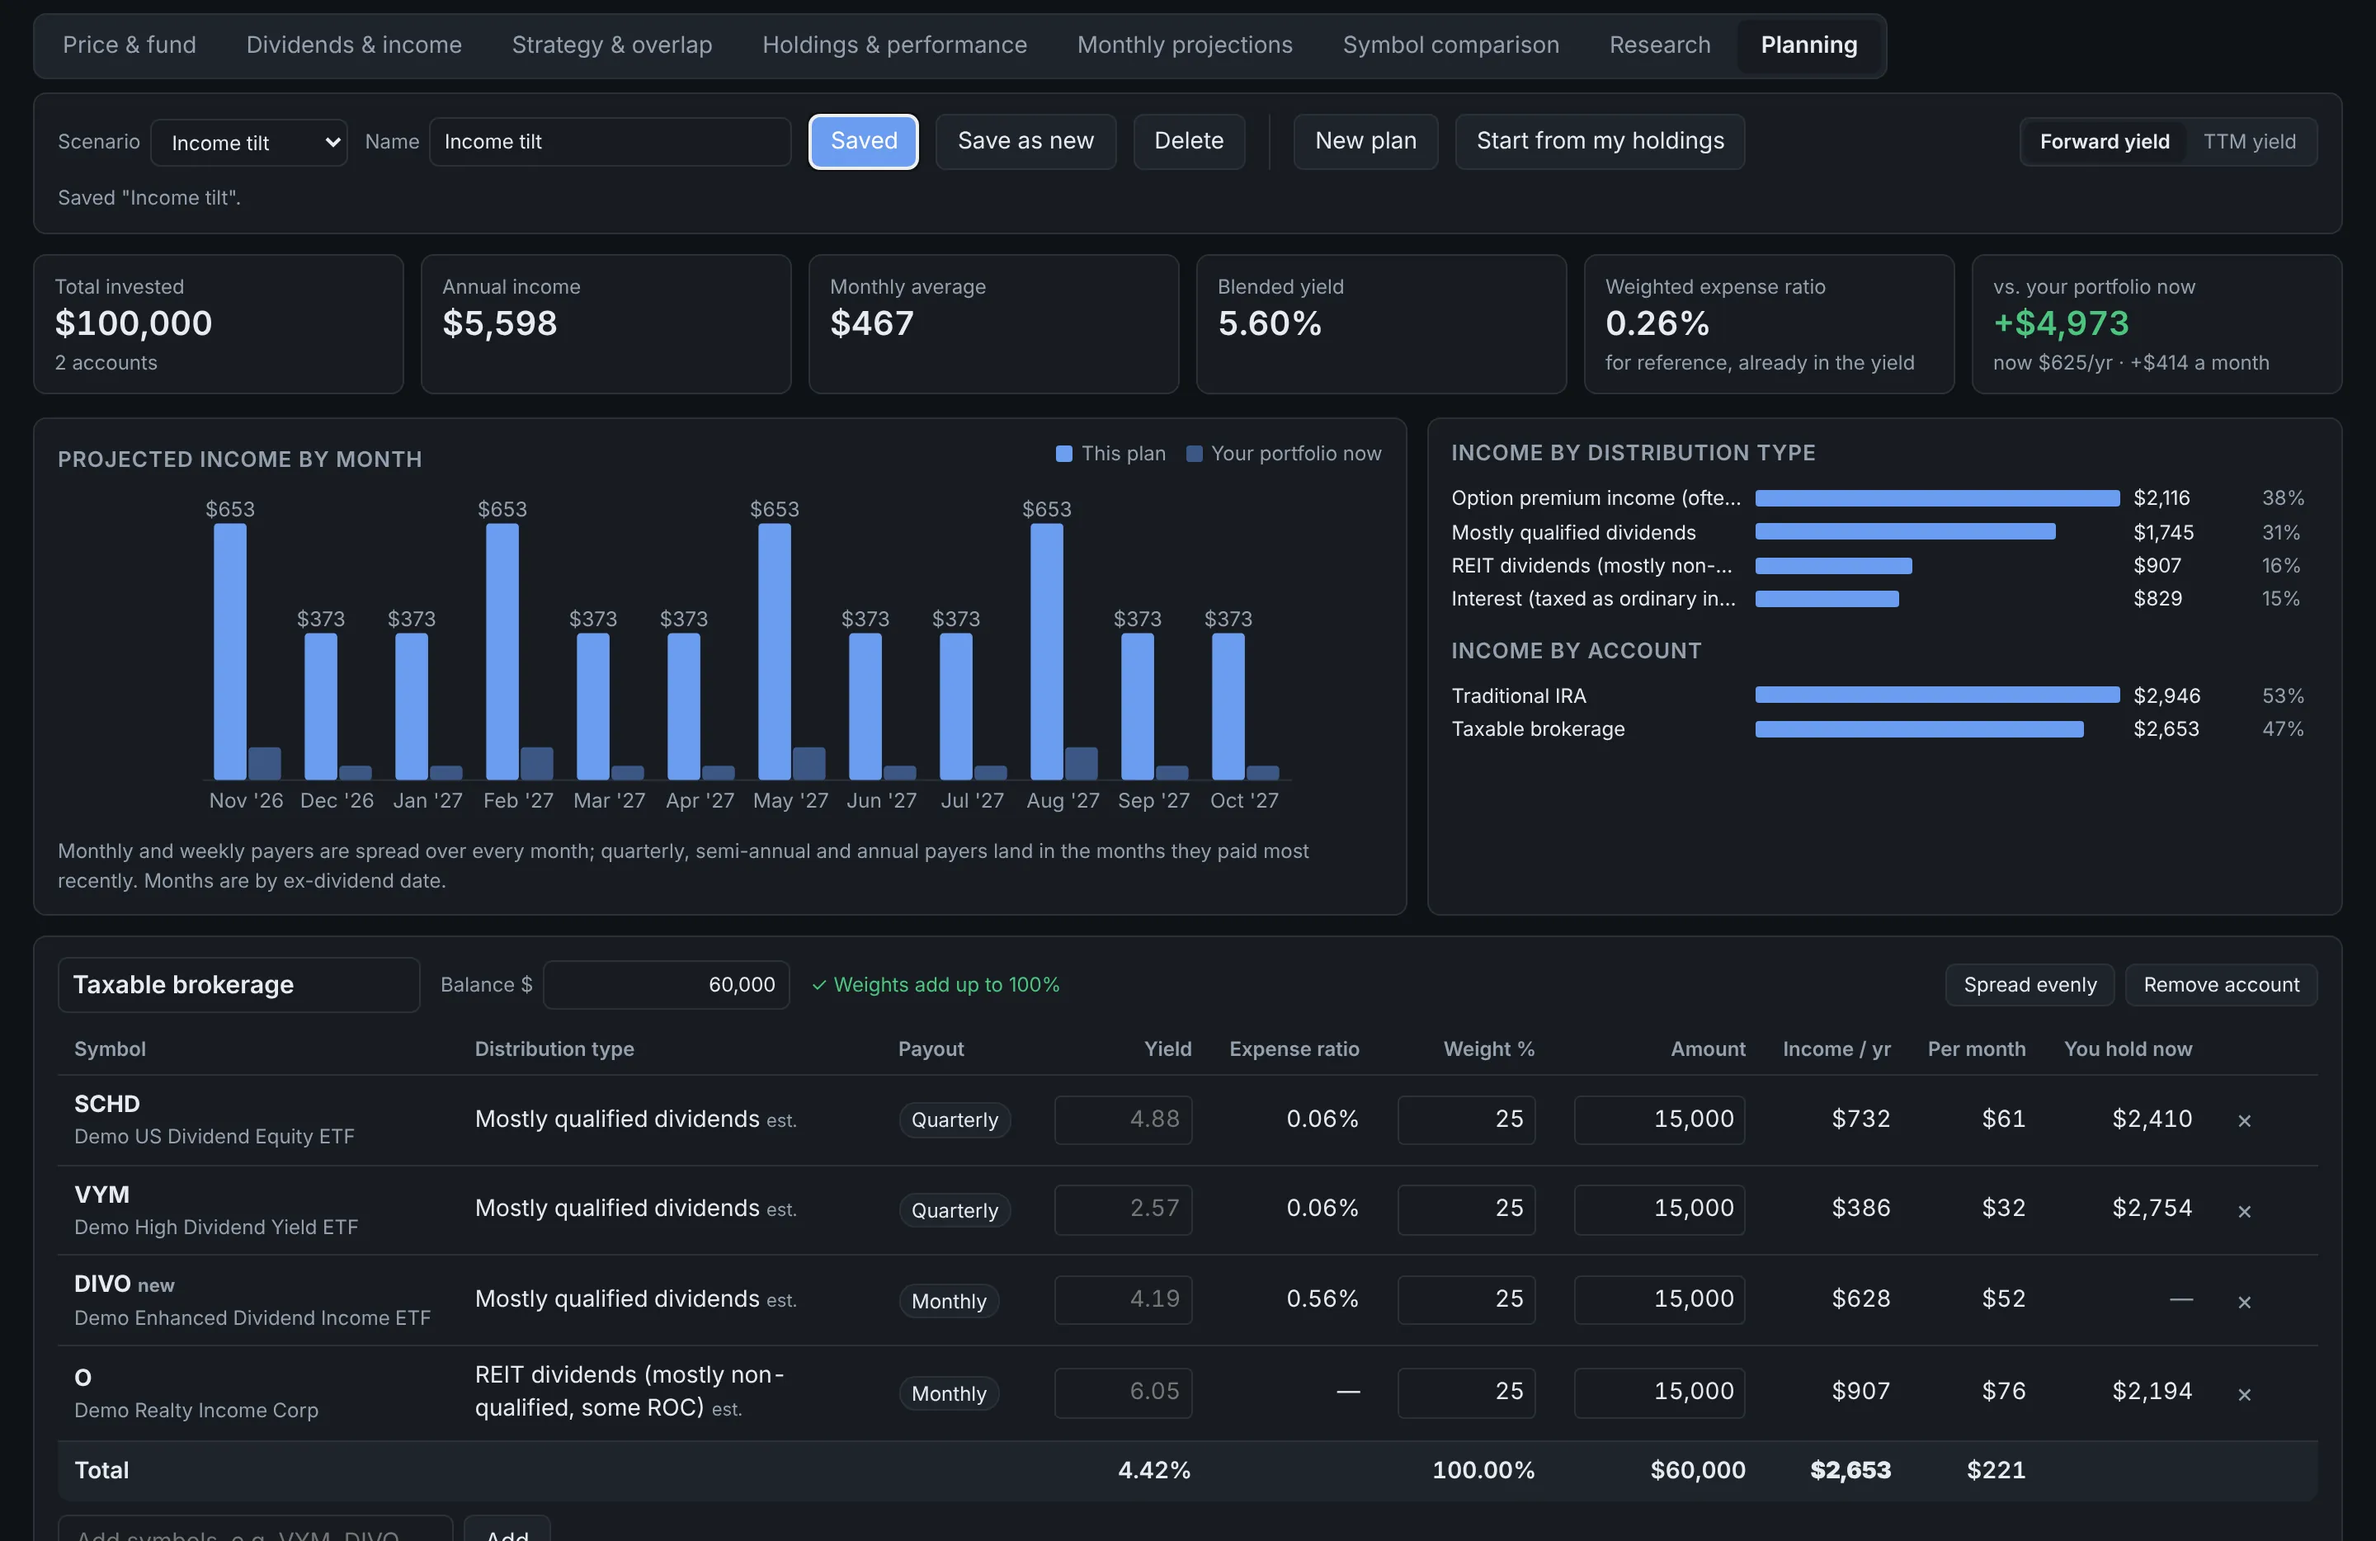
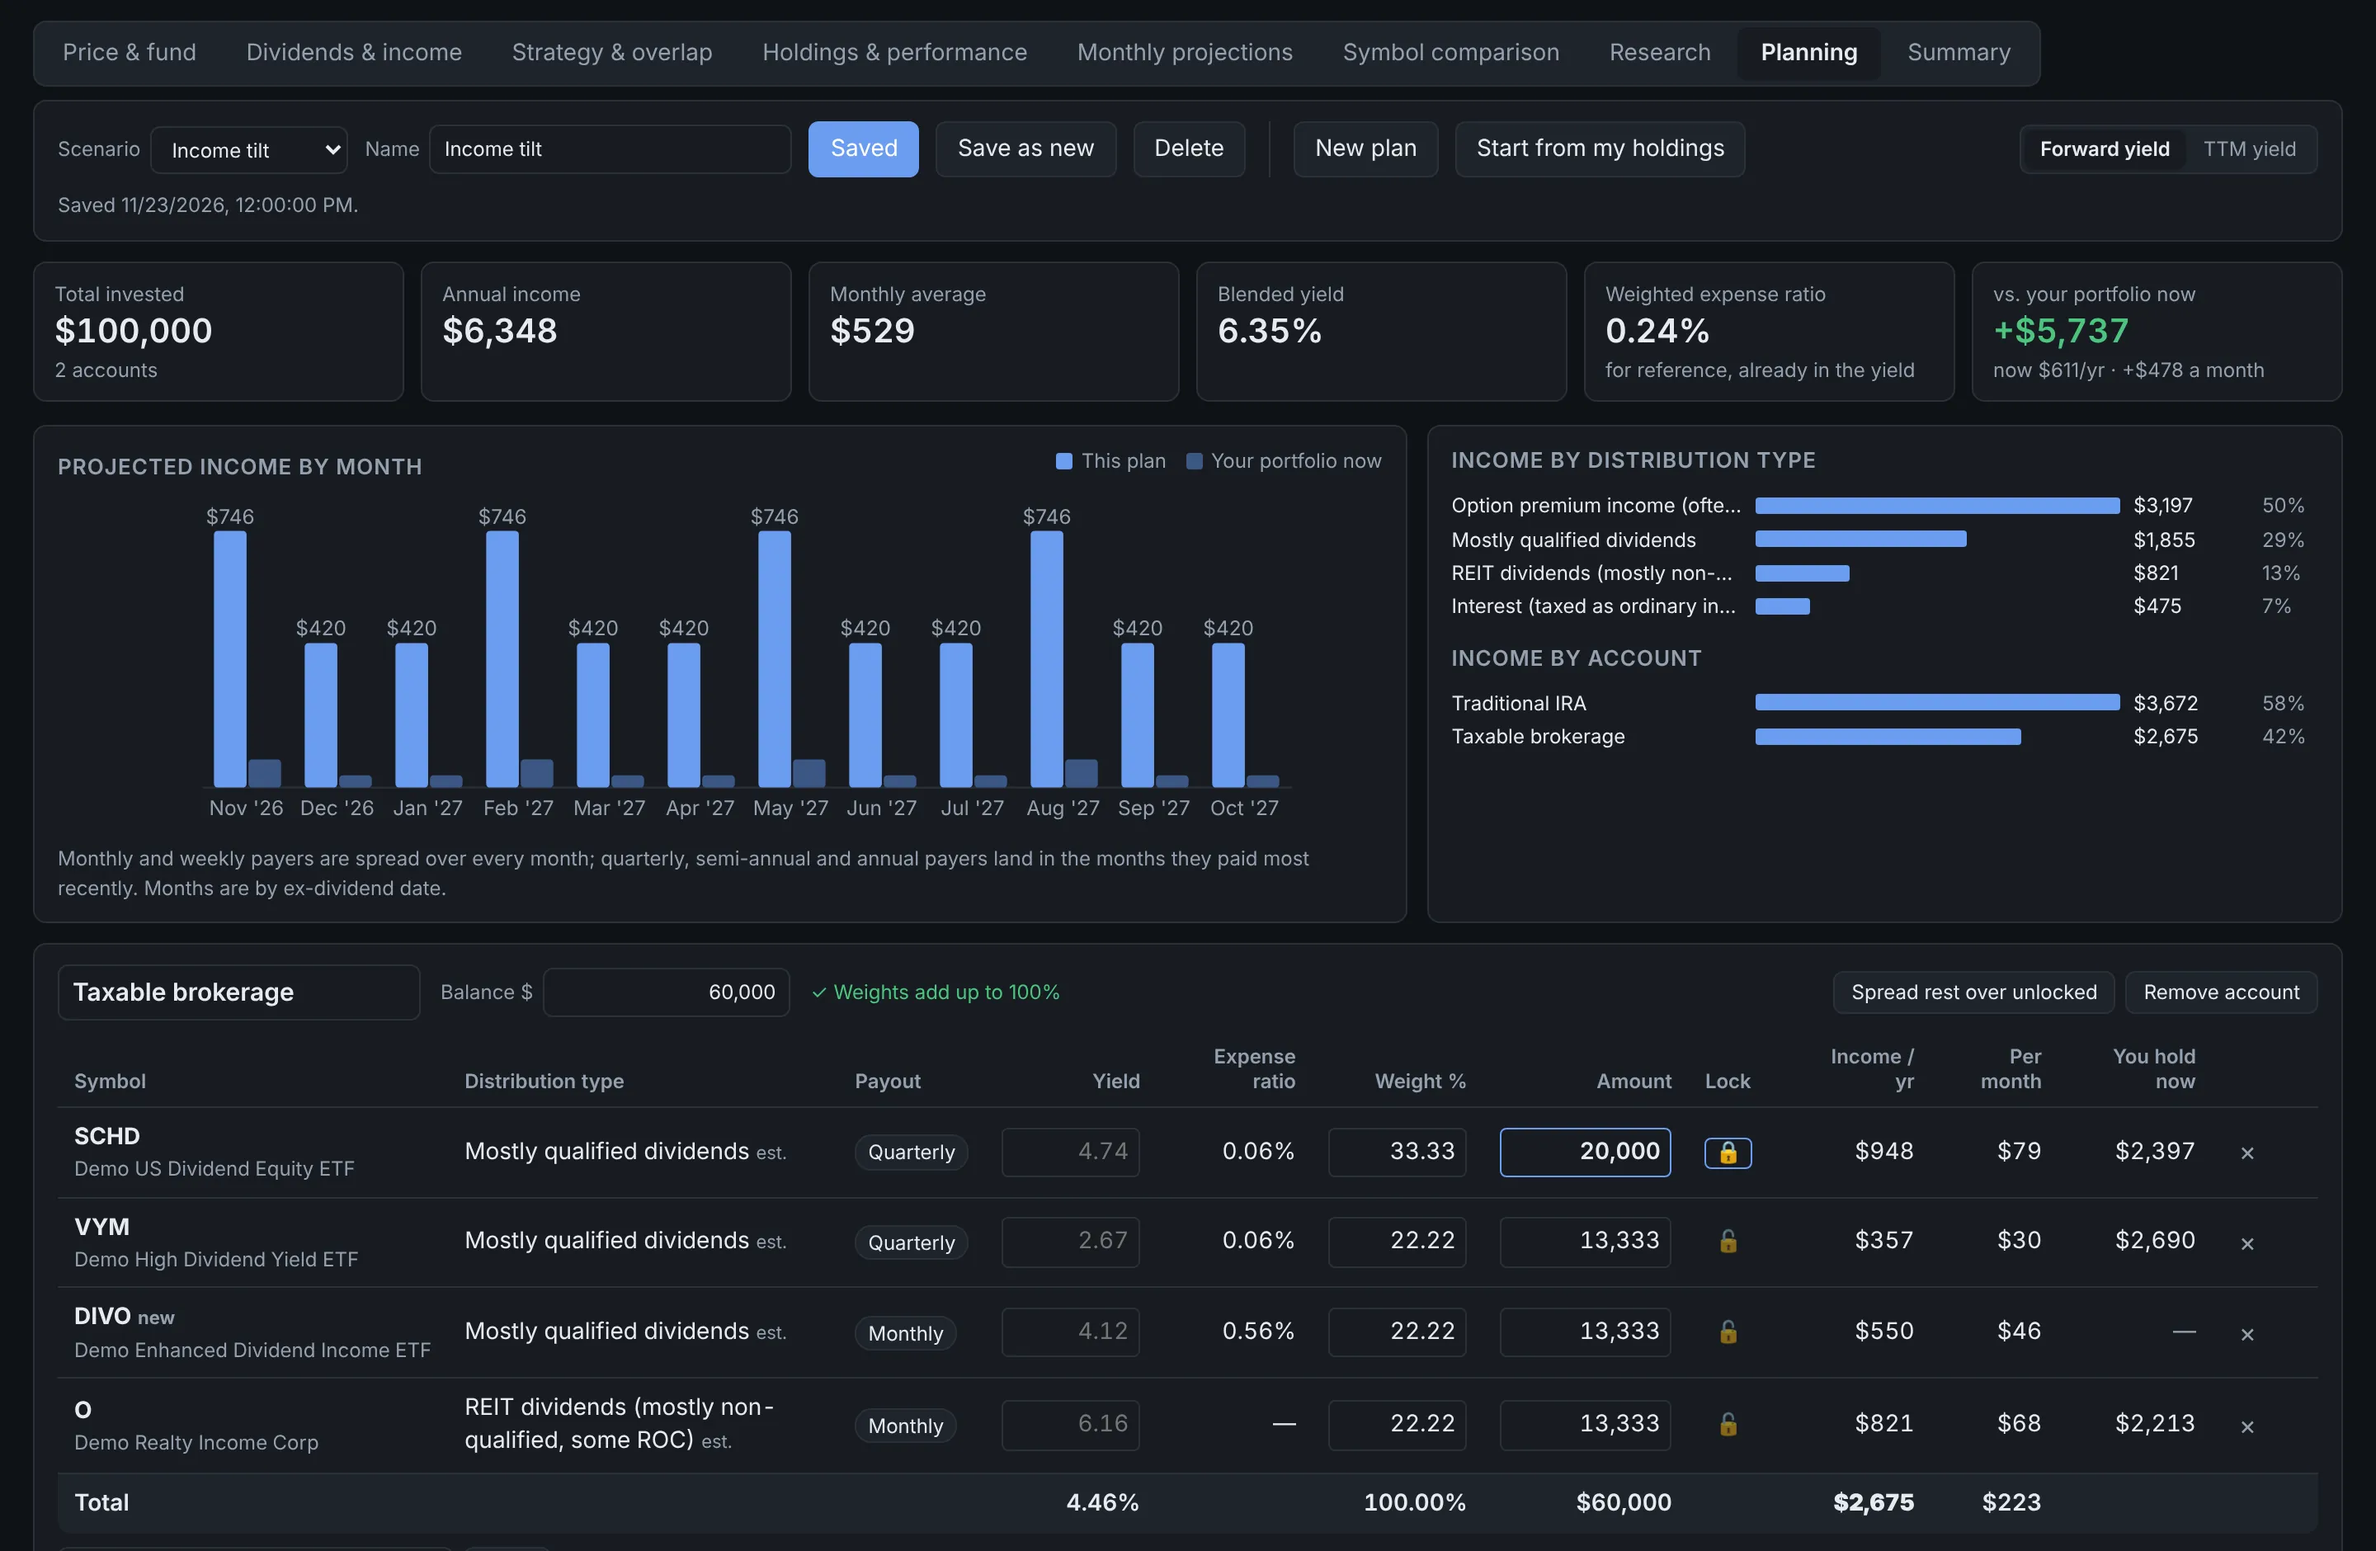
Dividend Dashboard: add Summary tab, Planning locks, Research holdings badges, money market yields
Describe the features added to the dashboard since Nov 19: the Summary tab
with PNG/PDF export and Hide $ amounts, locked dollar amounts in Planning,
clickable holdings badges in Research, $/%/Both switches, and money market
funds classed as interest with a 7-day yield. New Summary screenshot and
refreshed Research and Planning screenshots, all from --demo data.

Claude-Session: https://claude.ai/code/session_01VvQfTNRDUN5mZNHAqGB2im

diff --git a/docs/projects/dividend-dashboard/features.md b/docs/projects/dividend-dashboard/features.md
@@ -65,6 +65,10 @@ announced). For your position: market value and shares, percent of your
 portfolio with a small bar, income per year and per month, and yield on cost.
 Symbols with no shares show as *watch*.
 
+Money market funds (SPAXX, FDRXX and the like) are recognized automatically and
+classed as interest, taxed as ordinary income. Yahoo keeps no payout history for
+them, so their yield comes from Yahoo's current 7-day yield and is marked *7-day*.
+
 ### Strategy & overlap
 
 Each holding's underlying exposure (Nasdaq-100, S&P 500 and so on) and options
@@ -78,7 +82,8 @@ plain-English glossary of the strategies.
 Quantity, average cost, current price, total cost, market value, unrealized
 gain or loss ($ and %), portfolio weight, income and yield on cost, with totals.
 **Holdings by size**, above the table, lists every position by market value and
-share of the portfolio, largest first, with a stacked bar on top.
+share of the portfolio, largest first, with a stacked bar on top. Switch it
+between **$**, **%** or **Both**.
 
 ### Monthly projections
 
@@ -86,7 +91,7 @@ Projected income for each holding over the next 12 months, with monthly totals
 and a chart. Monthly and weekly payers count in every month; quarterly,
 semi-annual and annual payers repeat the month of their latest payment.
 **Annual projection by holding** splits the year's income into a stacked bar
-and a list, in dollars or percent.
+and a list, in **%**, **$** or **Both**.
 
 ### Symbol comparison
 
@@ -99,7 +104,8 @@ return, yield, volatility, max drawdown and the period's low and high.
 
 Look up any single symbol: price, headline numbers, the same chart and stats as
 Symbol comparison, and everything from the detail view. **+ Compare** sends it
-to the comparison tab.
+to the comparison tab. Badges for your holdings sit below the symbol box, so you
+can look one up with a single click; the one you're viewing is highlighted.
 
 ### Planning
 
@@ -113,6 +119,11 @@ For each symbol, set a weight % or a dollar amount. The row shows distribution
 type, payout frequency, yield (forward or TTM, or type your own), expense ratio,
 income per year and per month, and what you hold in it now. Each account checks
 that its weights add up to 100%, and **Spread evenly** splits it equally.
+
+To pin an exact dollar amount, type it in the row's Amount box and click its
+lock (🔒). A locked amount stays put when the balance changes, and the button
+becomes **Spread rest over unlocked**, which splits whatever the locked rows
+leave of the balance equally over the others. Locks are saved with the scenario.
 Expense ratio is for reference only: fund yields are already paid after fees,
 so it isn't subtracted again.
 
@@ -126,6 +137,22 @@ you can try a rebalance.
 next to your holdings file, so it travels with it through a shared cloud folder.
 **Save as new** makes a copy, and the **Saved scenarios** table compares them
 all against your portfolio now.
+
+### Summary
+
+A one-page snapshot of the whole portfolio to print or share, stamped with
+today's date. It shows metric cards (portfolio value, annual income, monthly
+average, current yield, yield on cost, total gain or loss and holdings), the
+next 12 months of projected income with the annual total, income by payout
+frequency (weekly, monthly, quarterly and so on), allocation donuts by holding
+and by core focus, **Holdings by size** and **Annual projection by holding**.
+Flagged holdings are highlighted in those panels.
+
+**Save as PNG** saves it as one image and **Download PDF** as a letter-size PDF,
+both in the theme you're using, made in the browser with no add-ons and no
+internet needed. **Hide $ amounts** swaps every dollar figure for $••• (the
+percentages stay), so you can post it without showing your balances; the
+exports follow it too.
 
 ## Using it on more than one computer
 

diff --git a/docs/projects/dividend-dashboard/screenshots.md b/docs/projects/dividend-dashboard/screenshots.md
@@ -46,12 +46,18 @@ Up to 10 tickers compared over a chosen period.
 
 ## Research
 
-Look up any symbol, held or not.
+Look up any symbol, held or not, or click one of your holdings below the search box.
 
-![Research tab: Look up any symbol, held or not](../../assets/images/dividend-dashboard/7-research.webp){ .screenshot loading=lazy }
+![Research tab: Look up any symbol, held or not, or click one of your holdings below the search box](../../assets/images/dividend-dashboard/7-research.webp){ .screenshot loading=lazy }
 
 ## Planning
 
-A what-if plan across two accounts, with income by month compared with your portfolio now.
+A what-if plan across two accounts, with income by month compared with your portfolio now. SCHD is locked at $20,000 and the rest of the account is spread over the unlocked rows.
 
-![Planning tab: A what-if plan across two accounts, with income by month compared with your portfolio now](../../assets/images/dividend-dashboard/8-planning.webp){ .screenshot loading=lazy }
+![Planning tab: A what-if plan across two accounts, with income by month compared with your portfolio now, and one row locked at a dollar amount](../../assets/images/dividend-dashboard/8-planning.webp){ .screenshot loading=lazy }
+
+## Summary
+
+A one-page snapshot to save as a PNG or PDF: metric cards, 12-month income, income by payout frequency, allocation donuts, holdings by size and annual projection by holding.
+
+![Summary tab: Metric cards, 12-month income, income by payout frequency, allocation donuts, holdings by size and annual projection by holding](../../assets/images/dividend-dashboard/9-summary.webp){ .screenshot loading=lazy }

diff --git a/docs/projects/dividend-dashboard/faq.md b/docs/projects/dividend-dashboard/faq.md
@@ -41,6 +41,17 @@
     capital, bond funds pay interest). Check the fund's 19a-1 notices or your
     1099-DIV, then set it in Edit holdings.
 
+??? question "Why does my money market fund show a *7-day* yield?"
+    Yahoo keeps no payout history for money market funds (SPAXX, FDRXX and so
+    on), so there's nothing to work out a trailing or forward yield from. The
+    dashboard uses Yahoo's current 7-day yield instead, assumes monthly payments,
+    and classes the income as interest (ordinary income).
+
+??? question "Can I share a snapshot of my portfolio without showing my balances?"
+    Yes. On the **Summary** tab, tick **Hide $ amounts** and every dollar figure
+    becomes $••• while the percentages stay. **Save as PNG** and **Download PDF**
+    follow the setting.
+
 ??? question "Why are some ex-dividend or pay dates marked as estimates?"
     Yahoo announces at most one upcoming date per holding, often none for ETFs.
     The rest are estimated from the payment cadence and the holding's usual gap

diff --git a/docs/projects/dividend-dashboard/index.md b/docs/projects/dividend-dashboard/index.md
@@ -39,8 +39,10 @@ paid API key. This one keeps my holdings on my own machine.
 - **Symbol comparison and Research:** compare up to 10 tickers over 1M to Max,
   or look up any symbol you don't own yet.
 - **Planning:** try what-if allocations across taxable and retirement accounts,
-  see the income they'd pay by month, and save them as scenarios to compare
-  against what you own now.
+  lock exact dollar amounts and spread the rest, see the income they'd pay by
+  month, and save them as scenarios to compare against what you own now.
+- **Summary:** a one-page snapshot of the whole portfolio you can save as a PNG
+  or PDF, with an option to hide dollar amounts before you share it.
 - **Warning flags:** very high yield, recent dividend cut, possible NAV decay,
   high expense ratio and erratic payouts.
 - **Works across computers:** share one holdings file through a cloud folder, or
